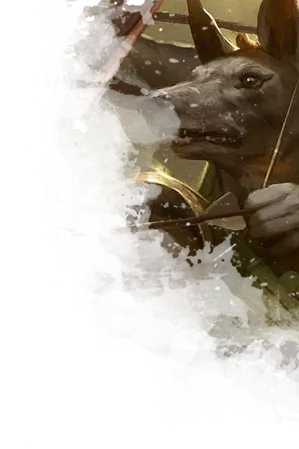
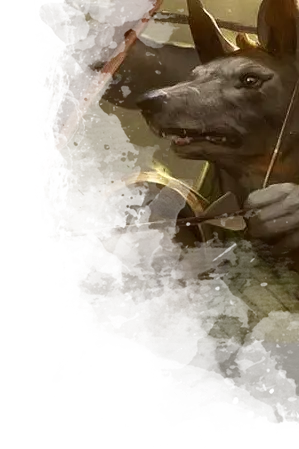
Update

diff --git a/src/main/resources/static/css/styles.css b/src/main/resources/static/css/styles.css
@@ -2502,11 +2502,11 @@ table.table_card tr.dtrg-group {
 }
 
 #left_block.races .table_card tr td .Aasimar.wrapper:before {
-  background-image: url(/resources/assets/img/races/aasimar.webp);
+  background-image: url(/resources/assets/img/races/aasimar2.webp);
 }
 
 #left_block.races .table_card tr td .Aasimar_MPMM.wrapper:before {
-  background-image: url(/resources/assets/img/races/aasimar_mpmm.webp);
+  background-image: url(/resources/assets/img/races/aasimar_mpmm2.webp);
 }
 
 #left_block.races .table_card tr td .Aven.wrapper:before {
@@ -2522,7 +2522,7 @@ table.table_card tr.dtrg-group {
 }
 
 #left_block.races .table_card tr td .Verdan.wrapper:before {
-  background-image: url(/resources/assets/img/races/verdan.webp);
+  background-image: url(/resources/assets/img/races/verdan2.webp);
 }
 
 #left_block.races .table_card tr td .Tiefling.wrapper:before {
@@ -2574,7 +2574,7 @@ table.table_card tr.dtrg-group {
 }
 
 #left_block.races .table_card tr td .Gnome.wrapper:before {
-  background-image: url(/resources/assets/img/races/gnome.webp);
+  background-image: url(/resources/assets/img/races/gnome2.webp);
 }
 
 #left_block.races .table_card tr td .Goblin.wrapper:before {
@@ -2586,11 +2586,11 @@ table.table_card tr.dtrg-group {
 }
 
 #left_block.races .table_card tr td .Goliath.wrapper:before {
-  background-image: url(/resources/assets/img/races/goliath.webp);
+  background-image: url(/resources/assets/img/races/goliath2.webp);
 }
 
 #left_block.races .table_card tr td .Goliath__MPMM.wrapper:before {
-  background-image: url(/resources/assets/img/races/goliath_mpmm.webp);
+  background-image: url(/resources/assets/img/races/goliath_mpmm2.webp);
 }
 
 #left_block.races .table_card tr td .Mushroom.wrapper:before {
@@ -2730,7 +2730,7 @@ table.table_card tr.dtrg-group {
 }
 
 #left_block.races .table_card tr td .Nymph.wrapper:before {
-  background-image: url(/resources/assets/img/races/nymph.webp);
+  background-image: url(/resources/assets/img/races/nymph2.webp);
 }
 
 #left_block.races .table_card tr td .Orc.wrapper:before {
@@ -2746,7 +2746,7 @@ table.table_card tr.dtrg-group {
 }
 
 #left_block.races .table_card tr td .Half-Orc.wrapper:before {
-  background-image: url(/resources/assets/img/races/half-orc.webp);
+  background-image: url(/resources/assets/img/races/half-orc2.webp);
 }
 
 #left_block.races .table_card tr td .Halfling.wrapper:before {
@@ -2858,7 +2858,7 @@ table.table_card tr.dtrg-group {
 }
 
 #left_block.races .table_card tr td .Khenra.wrapper:before {
-  background-image: url(/resources/assets/img/races/khenra.webp);
+  background-image: url(/resources/assets/img/races/khenra2.webp);
 }
 
 #left_block.races .table_card tr td .Hobgoblin.wrapper:before {
